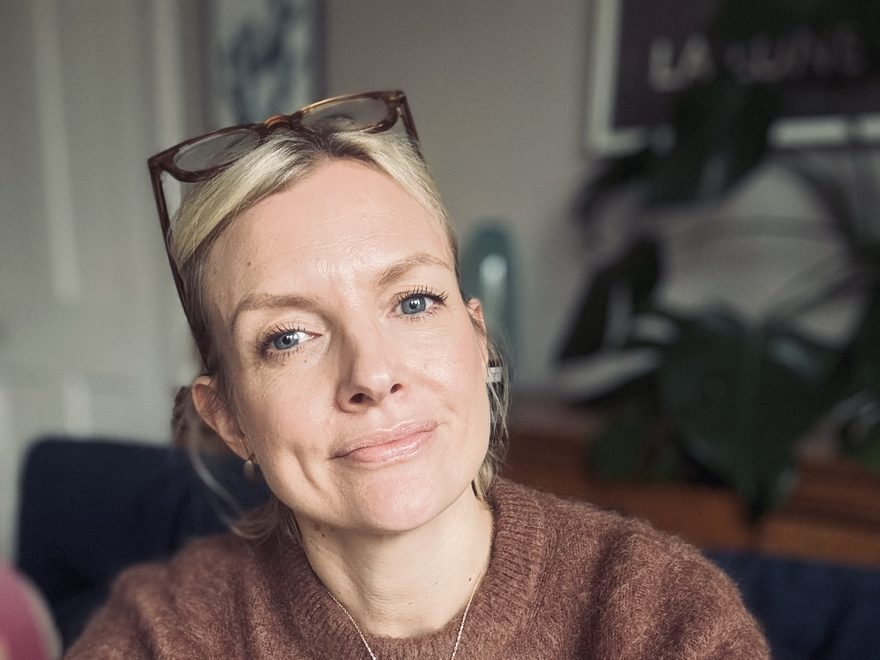
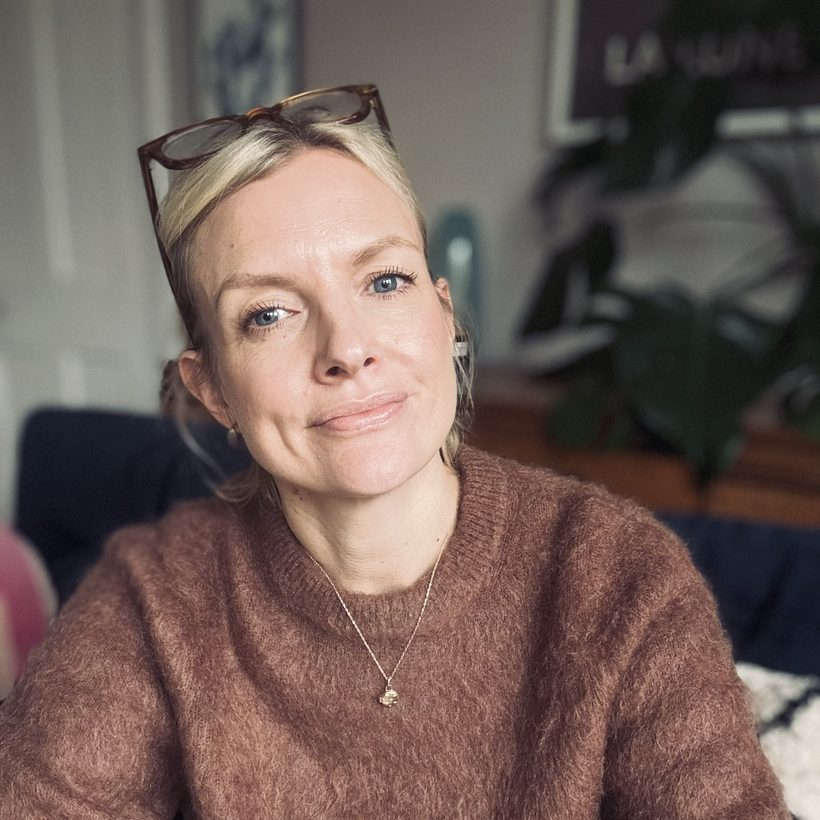
Enlarge and square off the hero portrait; widen the About crop
- Hero portrait: max width 330px to 400px (280px on mobile) and the arch
  becomes a 26px rounded rectangle.
- About portrait: frame changes from 4:3 to 1:1 and the image is recropped
  square at full source width, so noticeably more of the room is visible.
  Also drops the 8% transform scale that was zooming every About photo in.

Claude-Session: https://claude.ai/code/session_01UfBFmUN9nEFWjypicvKEDi

diff --git a/index.html b/index.html
@@ -70,8 +70,8 @@
   .illus .ft{fill:var(--plaster-tint);stroke:none}
   .illus .rug{stroke:var(--plaster)}
   .hero-illus{color:var(--green);width:100%;max-width:210px;height:auto}
-  .hero-portrait{width:100%;max-width:330px;height:auto;aspect-ratio:4/5;object-fit:cover;
-                 object-position:50% 30%;border-radius:200px 200px 24px 24px;
+  .hero-portrait{width:100%;max-width:400px;height:auto;aspect-ratio:4/5;object-fit:cover;
+                 object-position:50% 30%;border-radius:26px;
                  box-shadow:0 30px 60px -34px rgba(55,66,57,.45)}
   .hero-illus path,.hero-illus ellipse,.hero-illus line{stroke-width:1.6}
   .spot{width:54px;height:54px;margin-bottom:20px;color:#F1E7DC}
@@ -184,9 +184,9 @@
   .faq-item>summary:hover{color:var(--green)}
   .faq-a{padding:0 4px 24px 28px;color:var(--ink-soft);max-width:70ch}
   .faq-a a{color:var(--green);text-decoration:underline;text-underline-offset:3px;font-weight:600}
-  .portrait{aspect-ratio:4/3;border-radius:22px;overflow:hidden;background:linear-gradient(150deg,var(--plaster-soft),var(--plaster));display:flex;align-items:flex-end;justify-content:center;box-shadow:0 30px 60px -34px rgba(55,66,57,.4)}
+  .portrait{aspect-ratio:1/1;border-radius:22px;overflow:hidden;background:linear-gradient(150deg,var(--plaster-soft),var(--plaster));display:flex;align-items:flex-end;justify-content:center;box-shadow:0 30px 60px -34px rgba(55,66,57,.4)}
   .portrait .ph{font-family:var(--sans);font-size:.82rem;color:var(--green-deep);opacity:.7;padding:18px;text-align:center}
-  .portrait img{width:100%;height:100%;object-fit:cover;object-position:50% 50%;display:block;transform:scale(1.08);transform-origin:center}
+  .portrait img{width:100%;height:100%;object-fit:cover;object-position:50% 46%;display:block}
 
   .details{display:grid;grid-template-columns:repeat(3,1fr);gap:24px;margin-top:8px}
   .detail{padding:30px 28px;border-radius:18px;background:var(--paper);border:1px solid var(--line)}
@@ -250,7 +250,7 @@
     .hero p.lede{order:4}
     .hero-cta{order:5}
     .hero-trust{order:6}
-    .hero-portrait{max-width:240px}
+    .hero-portrait{max-width:280px}
     .principles,.details,.steps,.quotes{grid-template-columns:1fr}
     .benefits{grid-template-columns:1fr}
     .nav-links{display:none}
@@ -337,7 +337,7 @@
   <section class="band-plaster" id="about">
   <div class="wrap">
     <div class="about-grid">
-      <div class="portrait"><img src="portrait-about.jpg" width="880" height="660" loading="lazy"
+      <div class="portrait"><img src="portrait-about.jpg" width="820" height="820" loading="lazy"
            alt="Anna Hughes, person-centred counsellor, Bristol"></div>
       <div>
         <h2 style="margin:0 0 22px">Hi, I'm Anna</h2>
